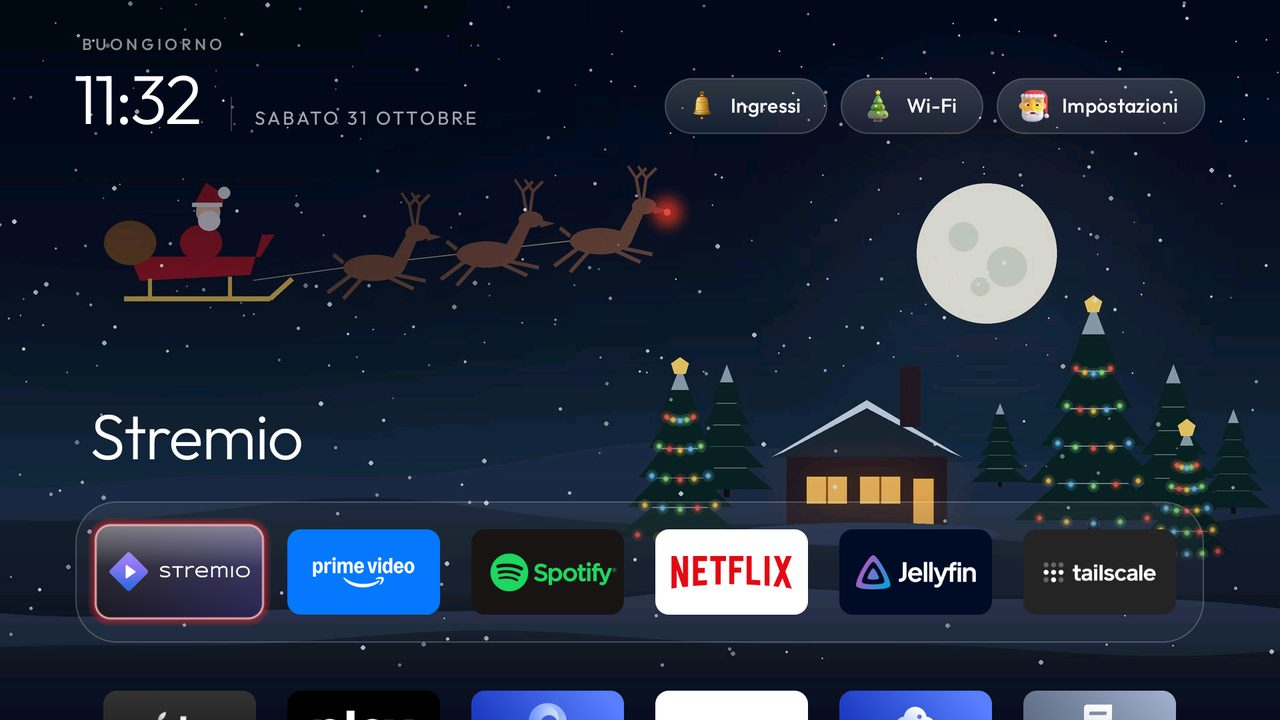
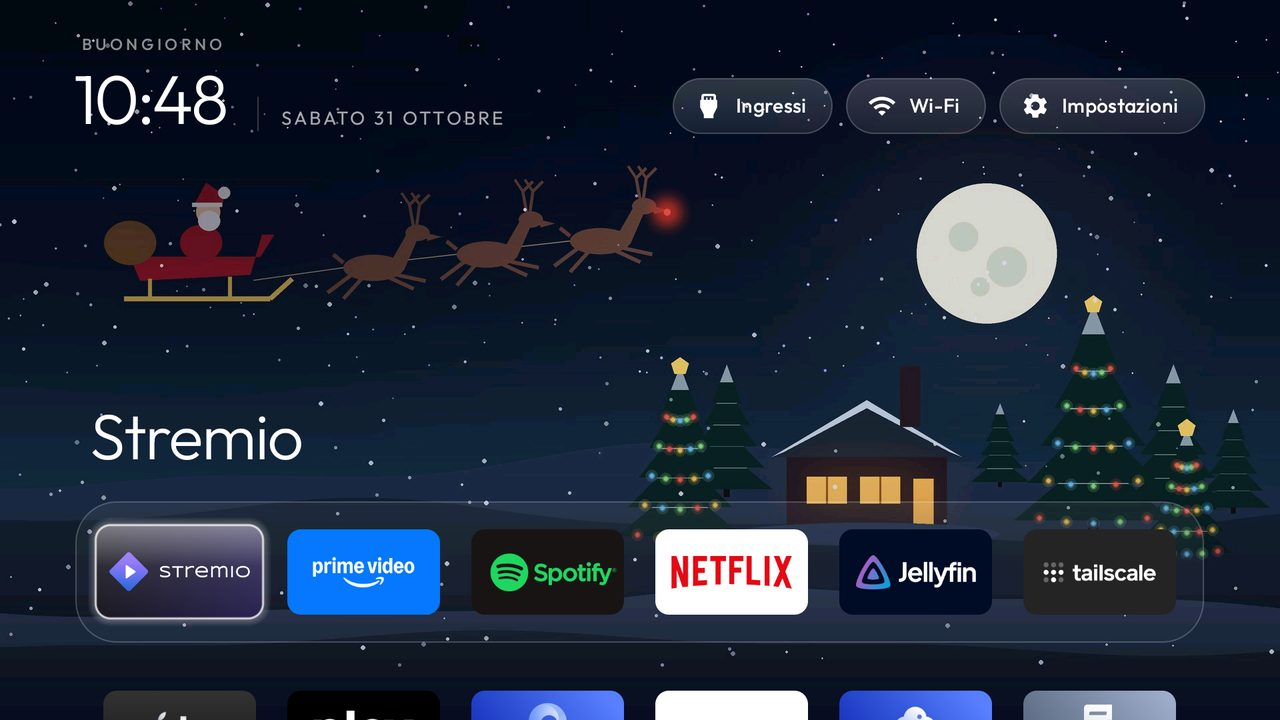
themes: christmas no longer names the Christmas skin; screenshot and README row show only what the theme keys do

Changed region(s): [[0.5, 0.1222, 0.8438, 0.1833], [0.0625, 0.0917, 0.4062, 0.1833], [0.0625, 0.7028, 0.2188, 0.8861]]

diff --git a/themes/README.md b/themes/README.md
@@ -44,7 +44,7 @@ updated. Add-ons with custom shell installers still need Bash; this native Windo
 | `cinematic/` | OLED and cinema look: true-colour wallpaper, a 6-column frosted-glass dock, no ambient glow and the idle clock after two minutes. The wallpaper is CC0, not MIT: see `cinematic/CREDITS.md` | <img src="cinematic/screenshot.jpg" width="320" alt="cinematic theme"> |
 | `dussehra/` | Festive skin for Dussehra (ends 21 Oct 2026): a marigold toran, a faint gold rangoli, a diya for Wi-Fi, a bell for Inputs, a marigold for Settings and a petal shower | <img src="dussehra/screenshot.jpg" width="320" alt="dussehra theme"> |
 | `glass/` | Dark navy wallpaper with soft teal and violet light, the cinematic top shelf, a frosted-glass dock, icon-only buttons and the focus glow in the app's colour, gliding without overshoot | <img src="glass/screenshot.jpg" width="320" alt="glass theme"> |
-| `christmas/` | Christmas until 6 Jan 2027: a snowy night, our own CC0 illustration (Santa's sleigh and reindeer over a lit cabin and fir trees) and the Christmas skin: a tree for Wi-Fi, a bell for Inputs, Santa for Settings, snow on the first Home of the day, a greeting that follows the date (Thanksgiving, 8, 25, 26 and 31 Dec, 1 and 6 Jan, in the launcher's own language where the day exists; other days keep the normal greeting; `greeting` overrides all of them) and a Christmas-red focus glow. On a launcher without that skin it shows the diya one. No start date: push it on the day you want it (Thanksgiving, or 8 December in Italy) | <img src="christmas/screenshot.jpg" width="320" alt="christmas theme"> |
+| `christmas/` | A snowy Christmas night, an illustration of our own (CC0, drawn by `make_wallpaper.py`): Santa's sleigh and reindeer over a lit cabin and fir trees, with a frosted-glass dock, faded rows and the picture behind the idle clock. No start or end date: push it on the day you want it | <img src="christmas/screenshot.jpg" width="320" alt="christmas theme"> |
 | `halloween/` | Halloween until 1 Nov 2026: an illustrated haunted house (our own, CC0) and seven night photos from Wikimedia Commons (jack-o'-lanterns by candlelight, a full moon behind a sequoia grove and over a Swedish fjord, a moonrise, two cemeteries in fog), a new one every 30 minutes (credited in `halloween/CREDITS.md`, not on screen), and a frosted-glass dock. With a launcher that knows `seasonal_skin`, the Halloween skin too: a jack-o'-lantern for Wi-Fi that glows while online, a bat for Inputs, a ghost for Settings, bats over the first Home of the day and "Happy Halloween"; it switches itself off after 1 November, the pictures stay until `--reset`. The illustration is CC0; the photos are CC0, public domain, CC BY and CC BY-SA, not MIT: see `halloween/CREDITS.md` | <img src="halloween/screenshot.jpg" width="320" alt="halloween theme"> |
 | `minimal/` | A quiet, flat look: a flat graphite background with no wallpaper, glow or dock band, so the tiles float on their own; five columns with one row of the grid under the dock, no greeting and no big app name, icon-only buttons in the top bar and the glass highlight gliding without overshoot | <img src="minimal/screenshot.jpg" width="320" alt="minimal theme"> |
 | `nature-calm/` | Twelve calm nature photos from Wikimedia Commons (misty karst and forest, autumn lakes, spring bluebells, winter frost, mossy woods, a rainforest lake, waterfalls), a new one every five minutes in random order with its place and photographer under the buttons; six small tiles in a frosted-glass dock, round icon-only buttons, no hero name. The photos are CC BY / CC BY-SA, not MIT: see `nature-calm/CREDITS.md` | <img src="nature-calm/screenshot.jpg" width="320" alt="nature-calm theme"> |

diff --git a/README.uk.md b/README.uk.md
@@ -282,7 +282,7 @@ Xiaomi (PatchWall). Передайте `STOCK_LAUNCHER=<package>` (`-StockLaunch
 |---|---|
 | **Налаштування** | Порядок дока, приховані застосунки, застосунок ефірного ТБ, від 4 до 7 плиток у рядку, зменшений рух. Усе в [`config.xml`](launcher/app/src/main/res/values/config.xml) |
 | **Налаштування на телевізорі** | Утримайте OK на «Налаштуваннях», щоб відкрити налаштування лончера. Необов'язковий `launcher_settings_button` робить так, що звичайне натискання відкриває їх одразу; налаштування телевізора лишаються на сторінці налаштувань і на своїй плитці |
-| **Теми** | Тло, шпалери й розкладка з `config.json`, надісланого через Wi-Fi, без перезбирання. У [`themes/`](themes/) постачається п'ятнадцять, включно з вбудованою `default/` |
+| **Теми** | Тло, шпалери й розкладка з `config.json`, надісланого через Wi-Fi, без перезбирання. У [`themes/`](themes/) постачається шістнадцять, включно з вбудованою `default/` |
 | **31 мова** | Дотримується мови телевізора, з повністю дзеркальним розкладом справа наліво для івриту |
 | **Бібліотека застосунків** | Необов'язково: перегляд усіх встановлених застосунків і додавання чи прибирання ярликів із головного екрана. Дивіться [посібник із бібліотеки застосунків](docs/app-library.md) |
 | **Меню плитки** | Необов'язково (`tile_menu`): утримайте OK на плитці для «Перемістити», «Прибрати з головного» та «Про застосунок». Вимкнено — утримання OK відкриває «Про застосунок» |

diff --git a/README.nl.md b/README.nl.md
@@ -650,7 +650,7 @@ De **tv** moet Android 8.0 (API 26) of nieuwer gebruiken. `minSdk` stelt de mini
 |---|---|
 | **Configuratie** | Volgorde van het dock, verborgen apps, Live-tv-app, 4 tot 7 tegels per rij en minder beweging. Alles staat in [`config.xml`](launcher/app/src/main/res/values/config.xml). |
 | **Instellingen op de tv** | Houd OK ingedrukt op Instellingen om de launcherinstellingen te openen. Met de optionele instelling `launcher_settings_button` opent een gewone klik ze direct; de tv-instellingen blijven beschikbaar via de instellingenpagina en de tegel van die app. |
-| **Thema's** | Achtergrond, wallpaper en indeling komen uit een via wifi verzonden `config.json`; opnieuw bouwen is niet nodig. In [`themes/`](themes/) staan vijftien thema's, inclusief het ingebouwde `default/`. |
+| **Thema's** | Achtergrond, wallpaper en indeling komen uit een via wifi verzonden `config.json`; opnieuw bouwen is niet nodig. In [`themes/`](themes/) staan zestien thema's, inclusief het ingebouwde `default/`. |
 | **31 talen** | Volgt de taal van de tv, met een volledig gespiegeld rechts-naar-links ontwerp voor Hebreeuws. |
 | **Appbibliotheek** | Optioneel: bekijk alle geïnstalleerde apps en voeg snelkoppelingen op het startscherm toe of verwijder ze. Zie [de handleiding voor de appbibliotheek](docs/app-library.md). |
 | **Tegelmenu** | Optioneel (`tile_menu`): houd OK ingedrukt op een tegel voor Verplaatsen, Verwijderen van startscherm en App-info. Staat dit uit, dan opent lang indrukken de app-info. |

diff --git a/README.de.md b/README.de.md
@@ -259,7 +259,7 @@ Gerät übrig bleibt, steht in der [Fehlerbehebung](docs/TROUBLESHOOTING.md).
 |---|---|
 | **Einrichten** | Dock-Reihenfolge, versteckte Apps, Live-TV-App, 4 bis 7 Kacheln je Zeile, reduzierte Bewegung. Alles in [`config.xml`](launcher/app/src/main/res/values/config.xml) |
 | **Einstellungen am Fernseher** | OK auf Einstellungen halten für die Launcher-Einstellungen. Ein optionales `launcher_settings_button` lässt einen normalen Klick sie direkt öffnen; die TV-Einstellungen bleiben auf der Einstellungsseite und ihrer App-Kachel. |
-| **Themes** | Hintergrund, Wallpaper und Layout aus einer `config.json`, über WLAN aufgespielt, ohne neuen Build. Fünfzehn liegen in [`themes/`](themes/), das eingebaute `default/` mitgerechnet |
+| **Themes** | Hintergrund, Wallpaper und Layout aus einer `config.json`, über WLAN aufgespielt, ohne neuen Build. Sechzehn liegen in [`themes/`](themes/), das eingebaute `default/` mitgerechnet |
 | **31 Sprachen** | Folgt der Sprache des Fernsehers, mit vollständig gespiegeltem Layout von rechts nach links für Hebräisch |
 | **App-Bibliothek** | Optional: jede installierte App durchsehen und Home-Verknüpfungen hinzufügen oder entfernen. Siehe [die Anleitung zur App-Bibliothek](docs/app-library.md) |
 | **Kachelmenü** | Optional (`tile_menu`): OK auf einer Kachel halten für Verschieben, Von Home entfernen und App-Info. Aus: OK halten öffnet App-Info |

diff --git a/README.md b/README.md
@@ -277,7 +277,7 @@ set is in [Troubleshooting](docs/TROUBLESHOOTING.md).
 |---|---|
 | **Configure** | Dock order, hidden apps, Live TV app, 4 to 7 tiles per row, reduced motion. All in [`config.xml`](launcher/app/src/main/res/values/config.xml) |
 | **Settings on the TV** | Hold OK on Settings for launcher settings. Optional `launcher_settings_button` makes a normal click open them directly; TV settings remain on the settings page and their app tile. |
-| **Themes** | Background, wallpaper and layout from a `config.json` pushed over Wi-Fi, no rebuild. fifteen ship in [`themes/`](themes/), the built-in `default/` included |
+| **Themes** | Background, wallpaper and layout from a `config.json` pushed over Wi-Fi, no rebuild. sixteen ship in [`themes/`](themes/), the built-in `default/` included |
 | **31 languages** | Follows the TV's language, with a fully mirrored right-to-left layout for Hebrew |
 | **App library** | Optional: browse every installed app and add or remove Home shortcuts. See [the app library guide](docs/app-library.md) |
 | **Tile menu** | Optional (`tile_menu`): hold OK on a tile for Move, Remove from Home and App info. Off, holding OK opens App info |
